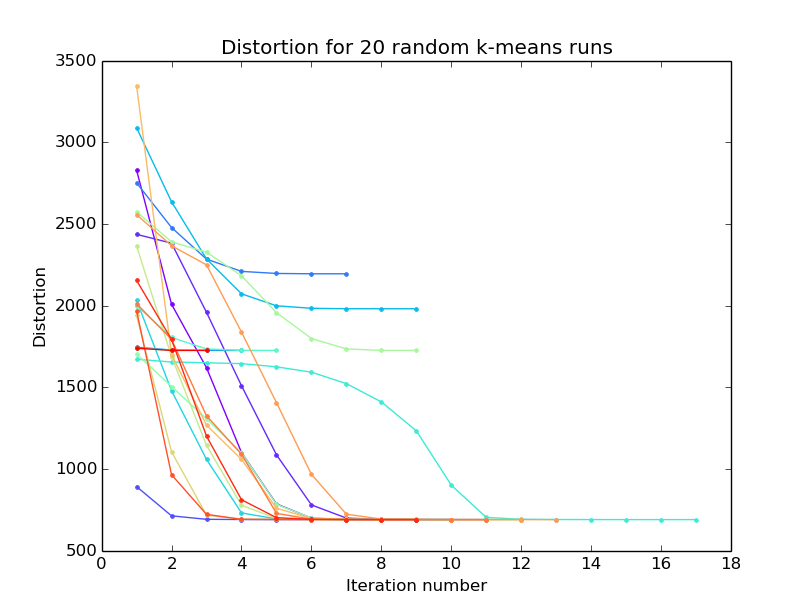
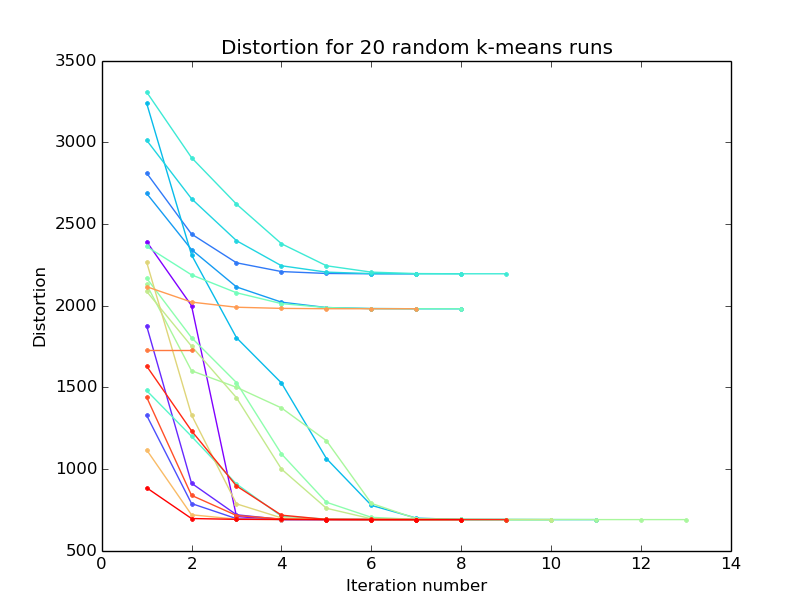
K-means++ added

diff --git a/homework1/kmeans/kmeans.py b/homework1/kmeans/kmeans.py
@@ -106,6 +106,87 @@ def kmeans(data, k):
         distortion_at_iteration.append([distortion, iteration])
     return data, distortion_at_iteration
 
+#Function to perform kmeans++
+def kmeanspp(data, k):
+    #Data will be represented in the following way: a list of all points, each point being a list containing the value in each dimension and its final value being an integer identifying the cluster it is assigned to
+    data_clustered = list()
+    for line in data:
+        line.append(0)
+        data_clustered.append(line)
+    clusters = list()
+    point_dimension = len(data_clustered[0]) - 1 #Requires all data points be same size
+    #Get maximum data point for scaling random numbers
+    max_data_scale = np.amax(np.absolute(np.asarray(data_clustered)))
+    #Initialize clusters with k-means++ algorithm
+    pp_clusters = list()
+    #Choose a random center from the data points
+    rand_id = int(math.ceil(random.random()*len(data)) - 1)
+    center = data[rand_id]
+    pp_clusters.append(center)
+    for x in range(1, k):
+        pp_distances = list()
+        #Compute D(x)^2
+        for point in data:
+            temp_distances = list()
+            for cluster in range(0, x):
+                distance = point_to_cluster_distance(point, pp_clusters[cluster])
+                temp_distances.append(distance)
+            min_dist = np.amin(temp_distances)
+            pp_distances.append(min_dist**2)
+        #Calculate probability
+        sum_distances = np.sum(np.asarray(pp_distances))
+        probs = pp_distances / sum_distances
+        #Choose new center according to new probability distribution
+        center_id = np.random.choice(np.asarray(range(0, len(data))), p = np.asarray(probs))
+        center = data[center_id]
+        center[-1] = x
+        #Add center to list of clusters
+        pp_clusters.append(center)
+    clusters = pp_clusters
+    #k-means algorithm
+    tolerance = True
+    iteration = 0
+    distortion_at_iteration = list()
+    while(tolerance):
+        #Assign each point to its nearest cluster
+        begin_data  = copy.deepcopy(data)
+        for point in data:
+            point_to_cluster_distances = list()
+            for cluster in clusters:
+                distance = point_to_cluster_distance(point, cluster)
+                point_to_cluster_distances.append(distance)
+            min_cluster_index = np.argmin(point_to_cluster_distances)
+            point[-1] = min_cluster_index
+        #Update centroids
+        cluster_means = copy.deepcopy(clusters)
+        for cluster in cluster_means:
+            cluster[:2] = [0] * 2
+        cluster_counter = list()
+        for cluster in cluster_means:
+            cluster_counter.append(0)
+        for point in data:
+            for cluster in clusters:
+                if(point[-1] == cluster[-1]):
+                    cluster_counter[point[-1]] += 1.0
+                    for i in range(0, len(cluster_means[point[-1]]) - 1):
+                        cluster_means[point[-1]][i] += point[i]
+        for i in range(0, len(cluster_means)):
+            for j in range(0, len(cluster_means[i]) - 1):
+                if(cluster_counter[i] != 0):
+                    cluster_means[i][j] /= cluster_counter[i]
+        for i in range(0, len(clusters)):
+            for j in range(0, len(clusters[i])):
+                if(cluster_counter[i] != 0):
+                    clusters[i][j] = cluster_means[i][j]
+        #Check tolerance
+        after_data = copy.deepcopy(data)
+        tolerance = checktolerance(begin_data, after_data)
+        distortion = distortionfunction(after_data, clusters)
+        iteration += 1
+        distortion_at_iteration.append([distortion, iteration])
+    return data, distortion_at_iteration
+
+
 #Loads a dataset (e.g. toydata.txt)
 def loaddata(filename):
     with open(filename) as f:
@@ -182,3 +263,29 @@ for x, c in zip(range(0, 20), colors):
 #leg = plt.legend(loc=2, prop={'size':6}, ncol=4) #Might need to change this if dataset changes
 g.show()
 g.savefig("distortion_output.png")
+
+#Run kmeans++ 20 times
+output_20 = list()
+distortion_20 = list()
+for step in range(0, 20):
+    del data[:]
+    data = loaddata("toydata.txt")
+    output, distortion = kmeanspp(data, cluster_number)
+    output_20.append(output)
+    distortion_20.append(distortion)
+
+#Plot distortion function versus iteration number
+h = plt.figure(3)
+plt.title("Distortion for 20 random k-means++ runs")
+plt.xlabel("Iteration number")
+plt.ylabel("Distortion")
+colors = cm.rainbow(np.linspace(0, 1, 20))
+for x, c in zip(range(0, 20), colors):
+    label_name = "k-means++ run number " + str(x)
+    plt.plot([item[1] for item in distortion_20[x]], [item[0] for item in distortion_20[x]], color=c, marker='.', linestyle='-', label=label_name)
+
+#leg = plt.legend(loc=2, prop={'size':6}, ncol=4) #Might need to change this if dataset changes
+h.show()
+h.savefig("distortion_output_++.png")
+
+
